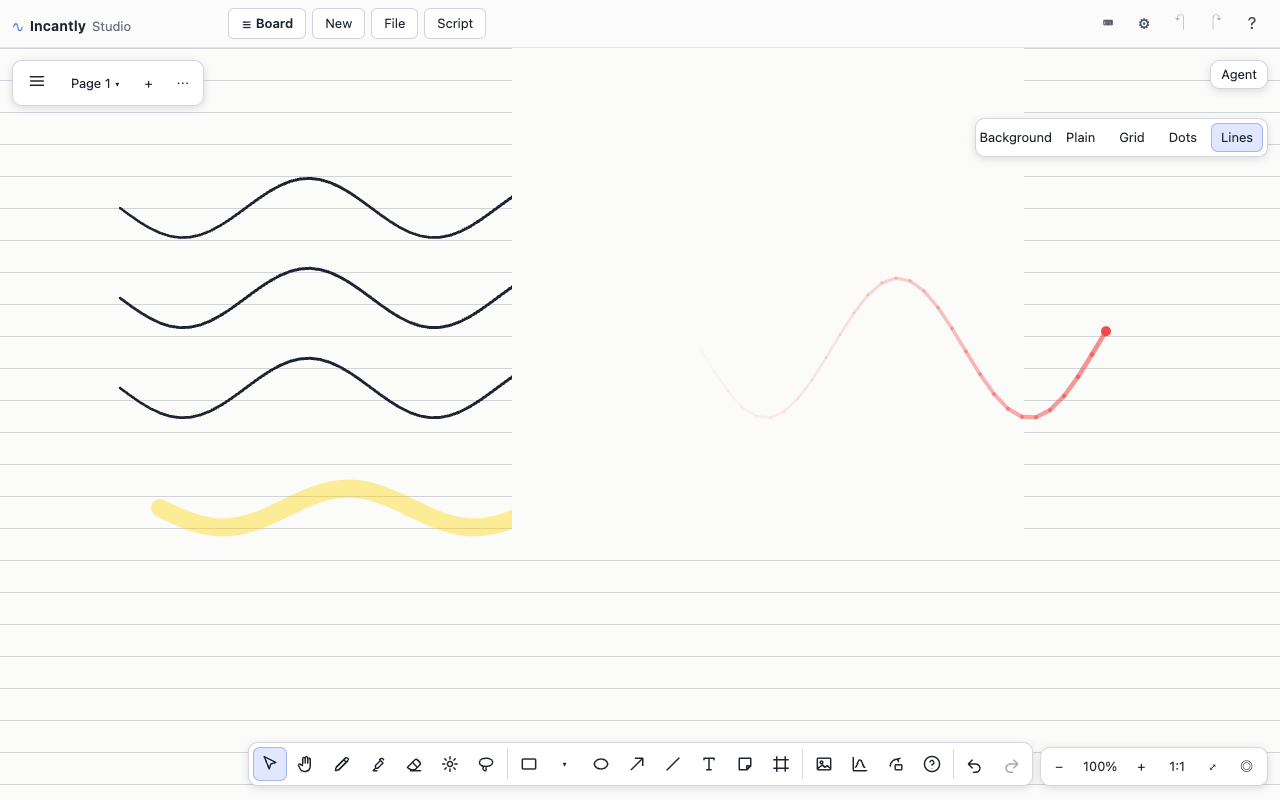
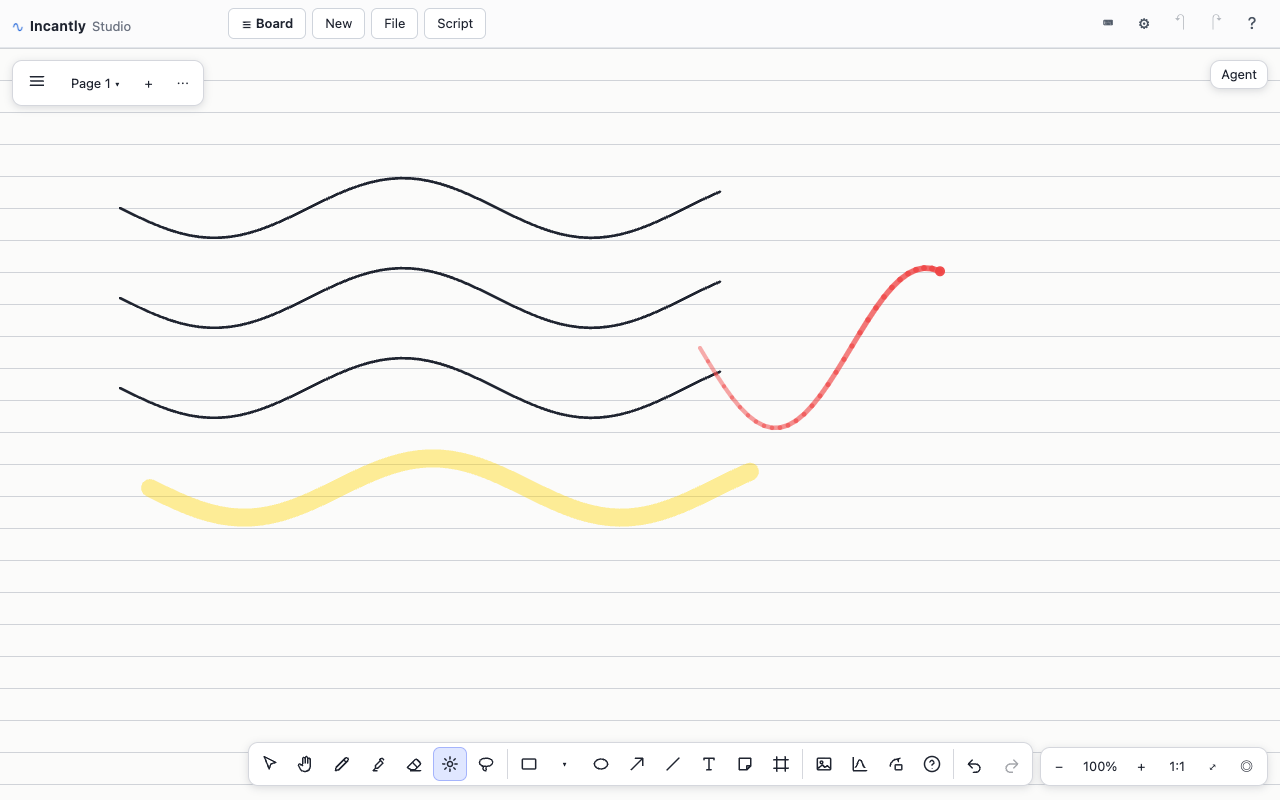
docs(board): retake the ruled-paper, three-cards and card-input pictures; README matches all 33 final pictures (BR-76)

diff --git a/handoff/board/screens/README.md b/handoff/board/screens/README.md
@@ -11,7 +11,7 @@ Taken in Chrome 158 (headless, 1280 × 800 at 1:1, WebGL 2) in the studio's Boar
 | Lasso selection | `final-lasso-selection.png` | Strokes inside a lasso loop selected, with the selection bar. |
 | Pages and the page bar | `final-pages-page-bar.png` | Two pages, the page list open on page 2 with its own stroke. |
 | Zoom | `final-zoom.png` | The board zoomed, the zoom bar showing the percentage. |
-| Backgrounds | `final-background-grid.png`, `final-background-dots.png`, `final-background-lines.png` | The grid, dots and ruled paper. The ruled-paper shot (`final-background-lines.png`) was taken before one tile was drawn: the column of the page from x 512 to 1024 (screen) has no ruled lines and the strokes are cut off at its left edge, and the laser's fading trail is still on the overlay. Retake it after the last tile is drawn. |
+| Backgrounds | `final-background-grid.png`, `final-background-dots.png`, `final-background-lines.png` | The grid, dots and ruled paper. The ruled-paper shot was retaken after BR-72 (a tile drawn in the middle of a frame was left blank): the paper was chosen first, then the laser drawn, and every tile shows the ruled lines and all the strokes while the laser's red trail fades on the overlay. |
 | Every shape kind | `final-shapes-all-kinds.png` | Rectangle, ellipse, triangle, diamond, star, line, arrow, frame, sticky note and text with maths. |
 | Select with handles | `final-select-handles.png` | A rectangle selected after a resize, with its handles and the style bar. |
 | Rotate | `final-rotate.png` | The same rectangle turned by its rotate handle. |
@@ -23,8 +23,8 @@ Taken in Chrome 158 (headless, 1280 × 800 at 1:1, WebGL 2) in the studio's Boar
 | Shape fixing | `final-fix-before.png`, `final-fix-after.png` | A rough pentagon, held still for half a second, and the regular pentagon it becomes. |
 | Clipboard paste | `final-clipboard-paste.png` | Pasted text made into a text shape with maths. |
 | A live graph card | `final-live-card.png` | A figure card with a live graph, a point to drag. |
-| Three live cards with pictures | `final-three-live-cards-with-pictures.png` | Five cards on the page, one selected with its toolbar. Nothing in the picture tells the live cards from the pictures (the page was made with three live and two pictures). |
-| A card taking input | `final-card-takes-input.png` | A card that has the input (a double click): the selected card has the thick blue border. The point A is still at its starting place; no drag is shown. |
+| Three live cards with pictures | `final-three-live-cards-with-pictures.png` | Five cards on the page; the script added a green "live" tag over each of the three live cards and a grey "picture" tag over each of the two pictures (the tags are not part of the product). No card is selected. |
+| A card taking input | `final-card-takes-input.png` | The card with the point A has the input (select tool, a double click): it has the thick blue border, and the point A was dragged up and to the right from its starting place (the curve stays where it was). |
 | The More shapes menu | `final-more-shapes-menu.png` | The toolbar in one row with the More shapes menu open. |
 | The style bar | `final-style-bar.png` | Colours, fill, dash, size and font for the shape tool. |
 | The customised board | `final-customised-board.png` | `?mode=notes&board=custom`: the toolbar on the left with names, the pen called "Stylo", the bin icon, teal accent. |
